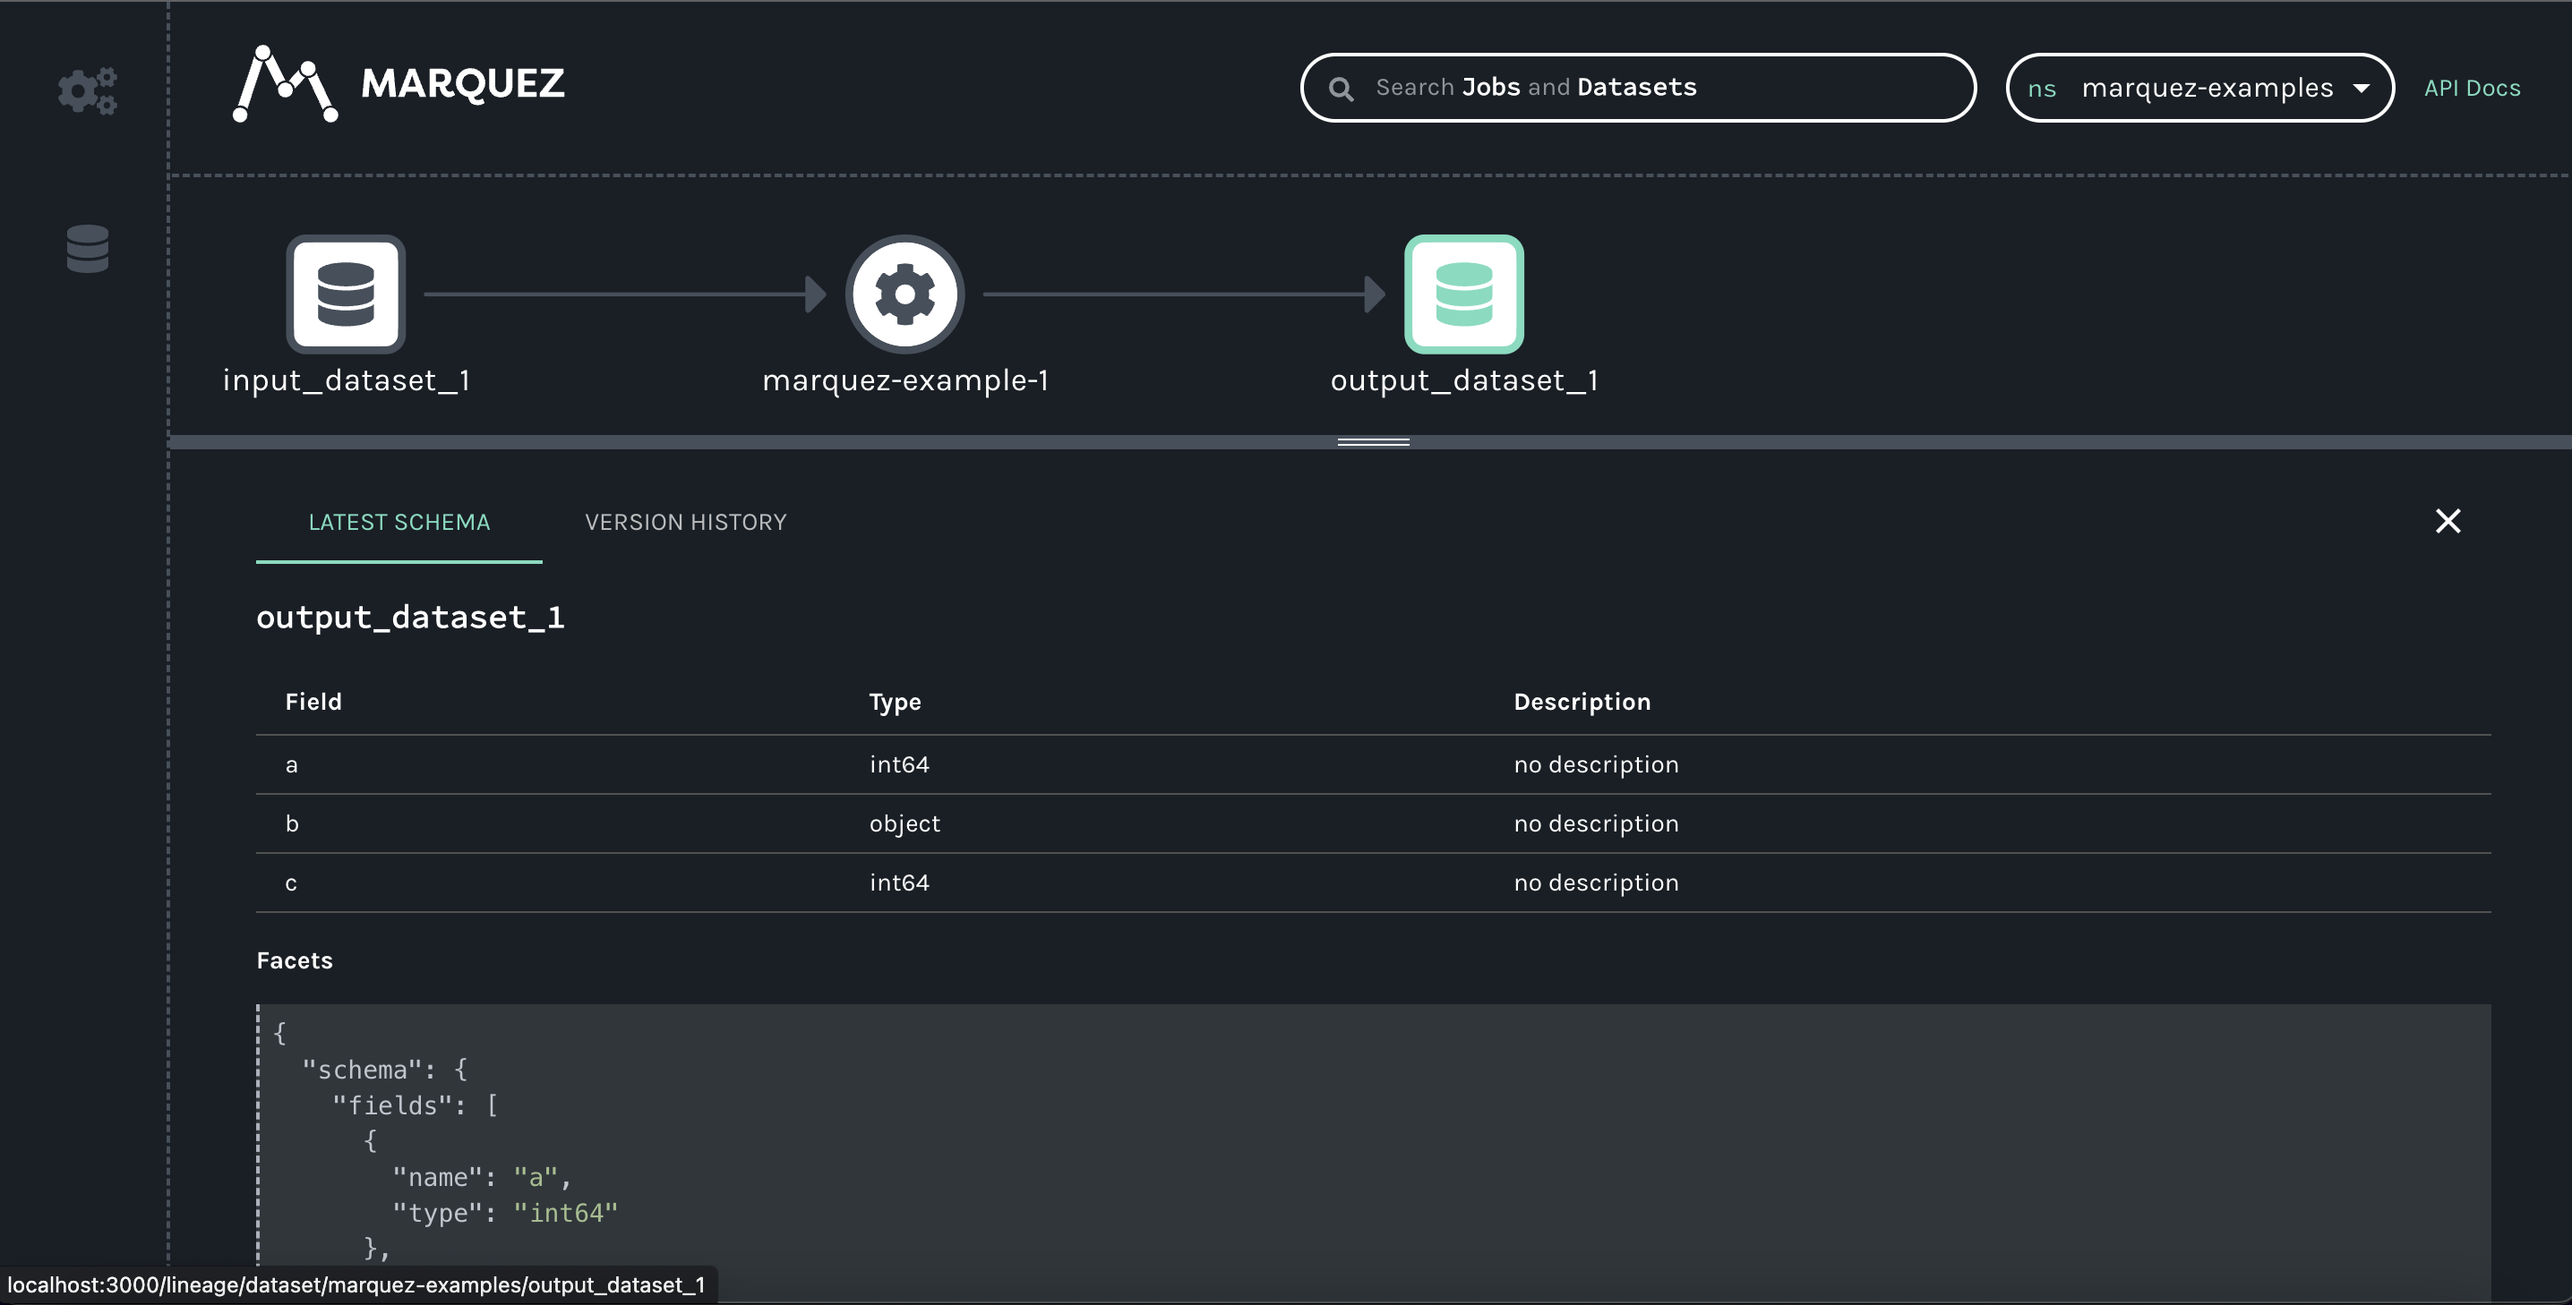
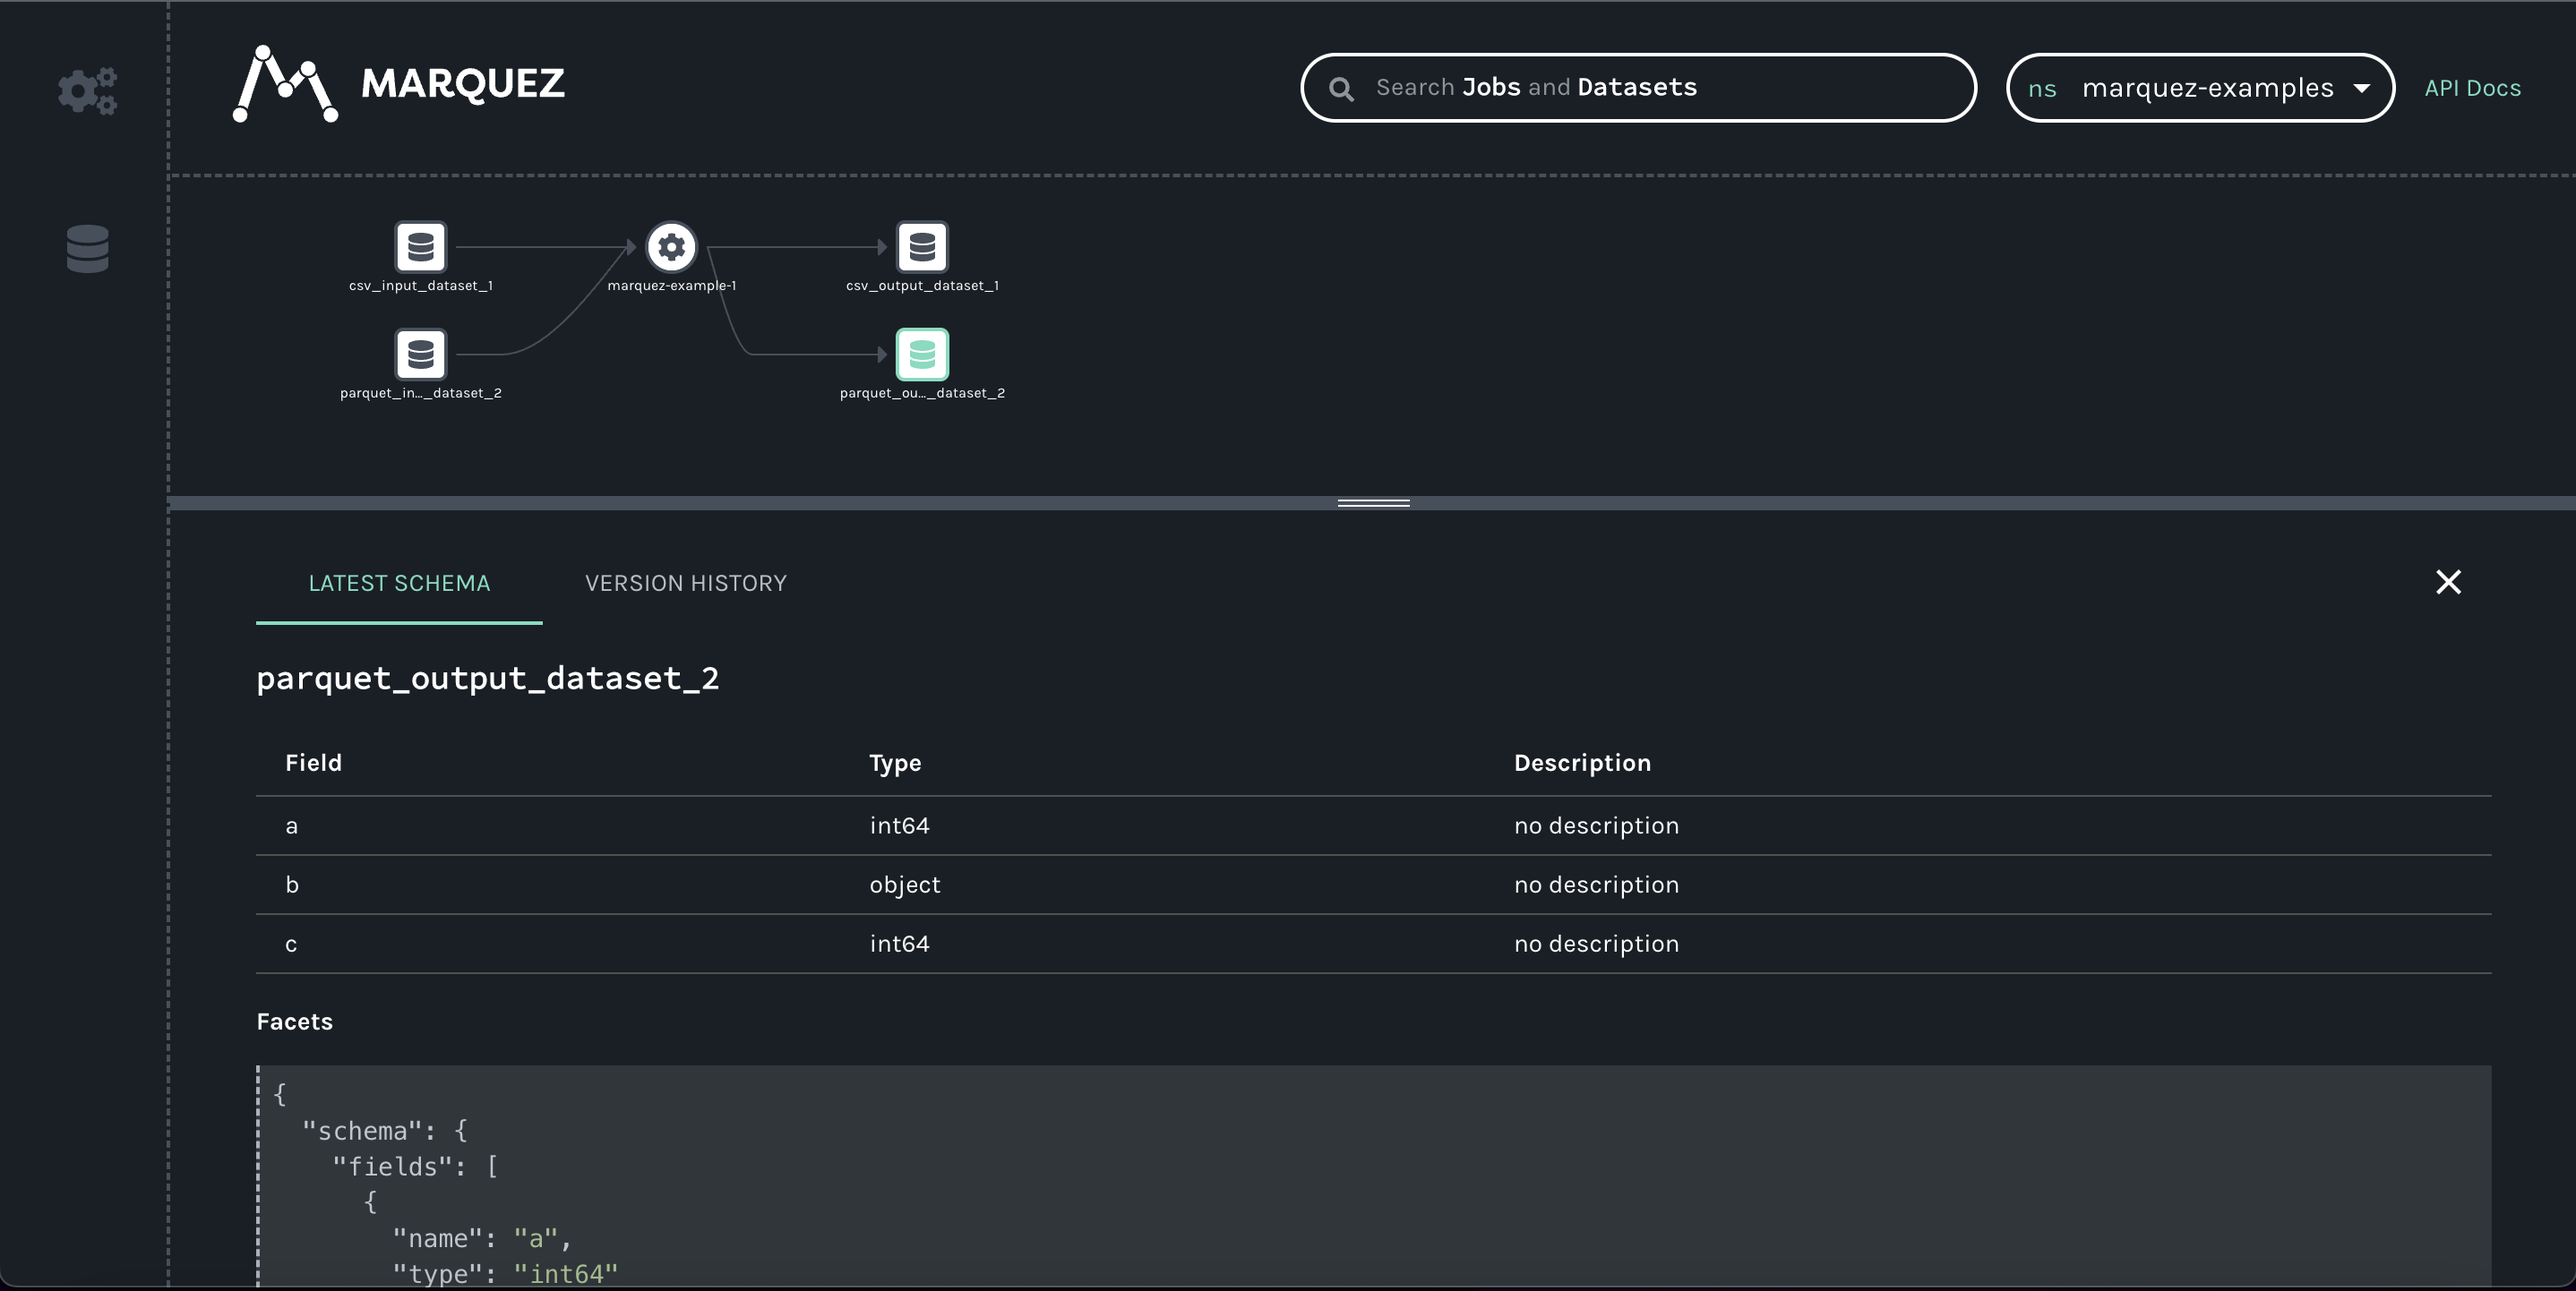
issues/5: adding support for read_parquet and to_parquet

diff --git a/pandas_lineage/custom_types/pandas.py b/pandas_lineage/custom_types/pandas.py
@@ -7,7 +7,7 @@ from pandas import DataFrame as PandasDataFrame
 from pandas import Series as PandasSeries
 from pandas._typing import FilePath, WriteBuffer
 
-from pandas_lineage.custom_types.lineage import JobRun, PandasDataSet
+from pandas_lineage.custom_types.lineage import JobRun
 from pandas_lineage.decorators.output import lineage_write
 
 
@@ -50,11 +50,6 @@ class LineageDataFrame(PandasDataFrame):
     @lineage_write(
         dataframe_arg=0,
         filepath_kwarg="path_or_buf",
-        filepath_arg=1,
-        job_run_kwarg="job_run",
-        job_run_arg=2,
-        dataset_name_kwarg="dataset_name",
-        dataset_name_arg=3,
     )
     def to_csv(
         self,
@@ -65,9 +60,18 @@ class LineageDataFrame(PandasDataFrame):
         **kwargs
     ) -> None:
         """
-        extending the functionality of pandas.DataFrame.to_csv to emit lineage events
-        TODO: is there a more central I/O code location in pandas such that we don't have to override each format?
-        references:
-        * https://github.com/pandas-dev/pandas/blob/main/pandas/io/formats/csvs.py
+        Mirrors pandas.DataFrame.to_parquet functionality with OpenLineage RunEvent emission
         """
         super().to_csv(path_or_buf, *args, **kwargs)
+
+    @lineage_write(
+        dataframe_arg=0,
+        filepath_kwarg="path",
+    )
+    def to_parquet(
+        self, path: Optional[Union[FilePath, WriteBuffer[bytes]]] = None, job_run: Optional[JobRun] = None, dataset_name=None, *args, **kwargs
+    ) -> None:
+        """
+        Mirrors pandas.DataFrame.to_parquet functionality with OpenLineage RunEvent emission
+        """
+        super().to_parquet(path, *args, **kwargs)

diff --git a/pandas_lineage/tests/io/parsers/test_readers.py b/pandas_lineage/tests/io/parsers/test_readers.py
@@ -7,7 +7,7 @@ from uuid import uuid4
 import pandas
 import pytest
 
-from pandas_lineage import read_csv
+from pandas_lineage import read_csv, read_parquet
 from pandas_lineage.custom_types import lineage
 
 DATA_PATH = Path(dirname(dirname(dirname(abspath(__file__))))) / Path("data")
@@ -36,14 +36,6 @@ def test_read_csv_abc123_data_no_job_run(path, caplog):
 
 
 @pytest.mark.parametrize("path", [("abc123_dataframe.csv"), ("null_abc123_dataframe.csv")])
-def test_read_csv_abc123_data(path, mock_job_run):
-    _path = DATA_PATH / Path(path)
-    test_df = read_csv(_path, job_run=mock_job_run)
-    expected_df = pandas.read_csv(_path)
-    assert test_df.equals(expected_df)
-
-
-@pytest.mark.parametrize("path", [("abc123_dataframe.csv"), ("null_abc123_dataframe.csv")])
 @mock.patch.dict(environ, {"OPENLINEAGE_URL": "https://not-real.com"})
 def test_read_csv_abc123_data_invalid_http(path, caplog, mock_job_run):
     _path = DATA_PATH / Path(path)
@@ -52,3 +44,11 @@ def test_read_csv_abc123_data_invalid_http(path, caplog, mock_job_run):
     expected_df = pandas.read_csv(_path)
     assert test_df.equals(expected_df)
     assert "Request Error: failed to emit lineage event" in caplog.text
+
+
+@pytest.mark.parametrize("path", [("abc123_dataframe.snappy.parquet")])
+def test_read_parquet_abc123_data(path, mock_job_run):
+    _path = DATA_PATH / Path(path)
+    test_df = read_parquet(_path, job_run=mock_job_run)
+    expected_df = pandas.read_parquet(_path)
+    assert test_df.equals(expected_df)

diff --git a/pandas_lineage/io/parsers/readers.py b/pandas_lineage/io/parsers/readers.py
@@ -10,9 +10,11 @@ inspect.getmodule(pandas.read_csv)
 
 ***formated with Black***
 """
+from pathlib import Path
 from typing import Optional, Union
 
 from pandas import read_csv as pandas_read_csv
+from pandas import read_parquet as pandas_read_parquet
 from pandas._typing import FilePath, ReadCsvBuffer
 
 from pandas_lineage.custom_types.lineage import JobRun
@@ -23,16 +25,24 @@ from pandas_lineage.decorators.input import lineage_read
 @lineage_read(
     filepath_kwarg="filepath_or_buffer",
     filepath_arg=0,
-    job_run_kwarg="job_run",
-    job_run_arg=1,
-    dataset_name_kwarg="dataset_name",
-    dataset_name_arg=2,
 )
 def read_csv(
     filepath_or_buffer: Union[FilePath, ReadCsvBuffer[bytes], ReadCsvBuffer[str]], job_run: Optional[JobRun] = None, dataset_name=None, *args, **kwargs
 ) -> LineageDataFrame:
     """
-    TODO
+    Mirrors pandas.read_csv functionality with OpenLineage RunEvent emission
     """
     dataframe = pandas_read_csv(filepath_or_buffer, *args, **kwargs)
+    return dataframe
+
+
+@lineage_read(
+    filepath_kwarg="path",
+    filepath_arg=0,
+)
+def read_parquet(path: Union[str, Path], job_run: Optional[JobRun] = None, dataset_name=None, *args, **kwargs) -> LineageDataFrame:
+    """
+    Mirrors pandas.raed_parquet functionality with OpenLineage RunEvent emission
+    """
+    dataframe = pandas_read_parquet(path, *args, **kwargs)
     return dataframe

diff --git a/examples/marquez-example/marquez_example.py b/examples/marquez-example/marquez_example.py
@@ -10,15 +10,21 @@ python getting_started.py
 
 from uuid import uuid4
 
-from pandas_lineage import read_csv
-from pandas_lineage.custom_types.lineage import JobRun
+import pandas
+
+from pandas_lineage import JobRun, read_csv, read_parquet
 
 # run 1
 job_run = JobRun(run_id=uuid4().hex, namespace="marquez-examples", name="marquez-example-1")
 start = job_run.emit_start()
 
-input_1 = read_csv("./mock_csv.csv", dataset_name="input_dataset_1", job_run=job_run)
-output_1 = input_1.dropna(how="all", axis=1)
-output_1.to_csv("./test.csv", dataset_name="output_dataset_1", job_run=job_run)
+csv_input_1 = read_csv("./mock_csv.csv", dataset_name="csv_input_dataset_1", job_run=job_run)
+parquet_input_2 = read_parquet("./mock_parquet.snappy.parquet", dataset_name="parquet_input_dataset_2", job_run=job_run)
+
+csv_output_1 = csv_input_1.dropna(how="all", axis=1)
+parquet_output_2 = pandas.concat([csv_output_1, parquet_input_2])
+
+csv_output_1.to_csv("./test.csv", dataset_name="csv_output_dataset_1", job_run=job_run)
+parquet_output_2.to_parquet("./test.snappy.parquet", dataset_name="parquet_output_dataset_2", job_run=job_run)
 
 complete = job_run.emit_complete()

diff --git a/pandas_lineage/__init__.py b/pandas_lineage/__init__.py
@@ -1,1 +1,3 @@
-from pandas_lineage.io.parsers.readers import read_csv
+from pandas_lineage.custom_types.lineage import JobRun  # noqa: F401
+from pandas_lineage.custom_types.pandas import LineageDataFrame  # noqa: F401
+from pandas_lineage.io.parsers.readers import read_csv, read_parquet  # noqa: F401

diff --git a/README.md b/README.md
@@ -9,6 +9,11 @@ pandas-lineage is intended to extend the functionality of I/O and standard trans
 ## Installation
 `pip install pandas-lineage`
 
+## Development Documentation
+* [dependency-management](docs/dependency-management.md)
+* [publishing](docs/publishing.md)
+* [testing](docs/testing.md)
+
 ## Examples:
 * [marquez-examples](examples/marquez-example/)
   * contains getting started code and a script for running Marquez locally in Docker

diff --git a/docs/dependency-management.md b/docs/dependency-management.md
@@ -24,3 +24,6 @@ Dependencies for this project are intended to be managed using poetry.
 * add docs dependency
   * `poetry add <package-name> --group docs`
   * `poetry export --output docs-requirements.txt --with docs`
+* add optional dependency
+  * `poetry add <package-name> --group optional`
+  * `poetry export --output optional-requirements.txt --with optional`

diff --git a/examples/marquez-example/README.md b/examples/marquez-example/README.md
@@ -4,6 +4,8 @@
 ## Instructions:
 1. install pandas-lineage
    * `pip install pandas-lineage`
+   * `pip install pyarrow`
+     * optional for parquet; remove or comment out parquet IO lines to avoid additional installation
 2. start marquez using the helper script `start_marquez.sh`
    * `source ./start_marquez.sh`
 3. run `getting_started.py`
